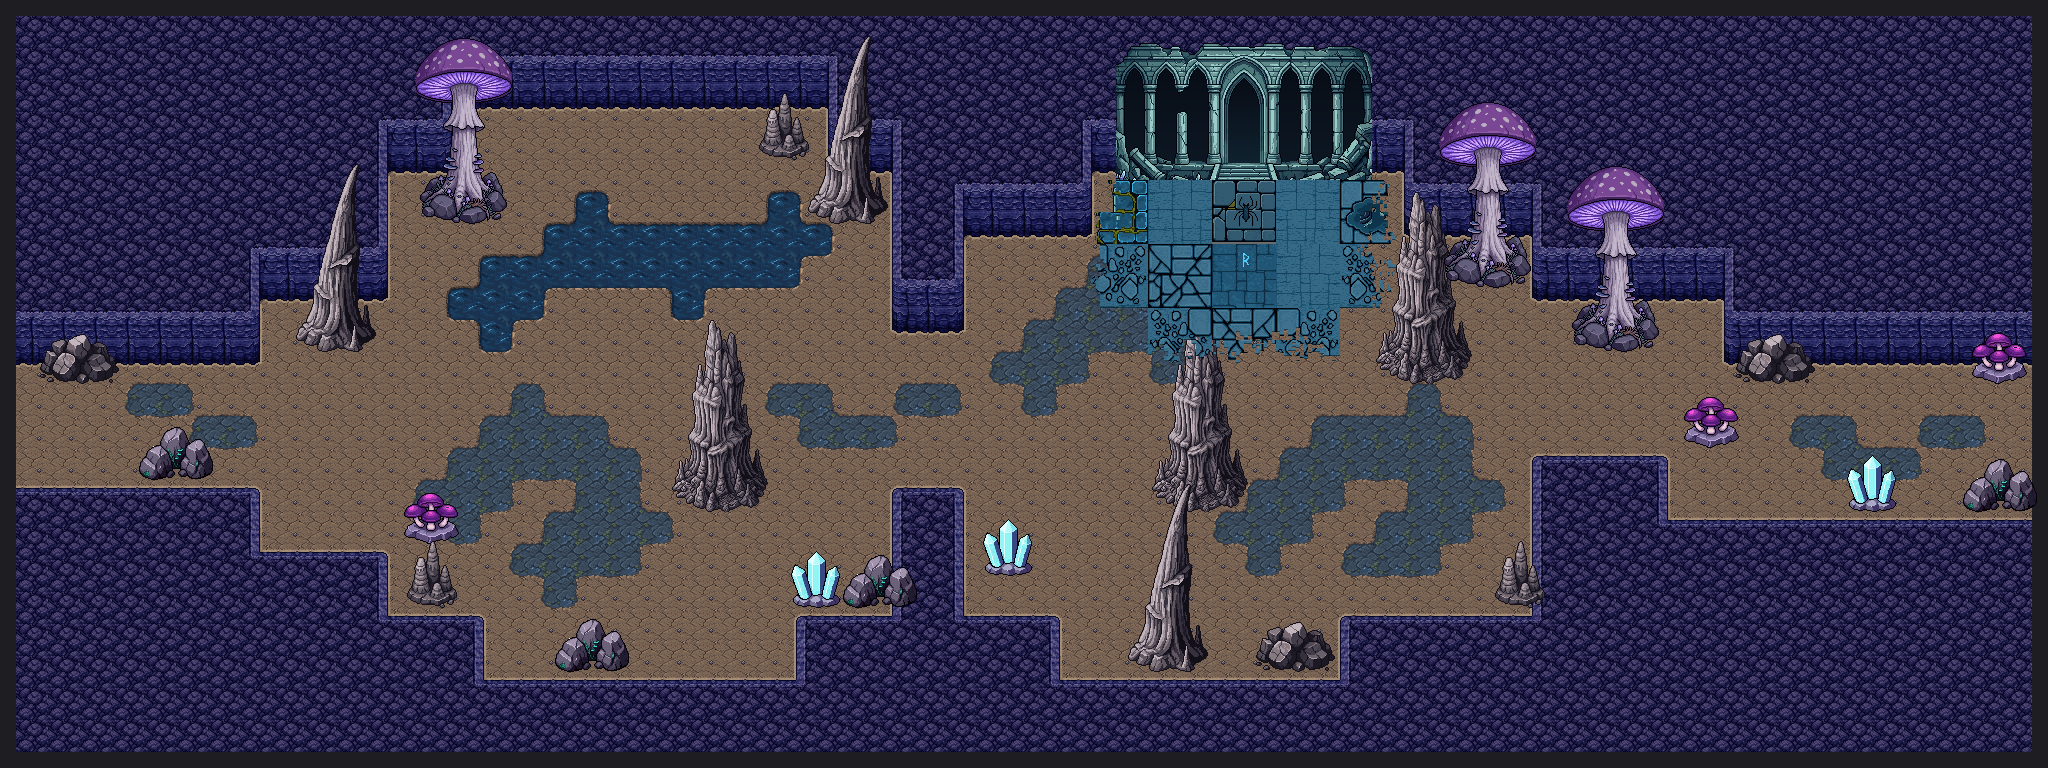
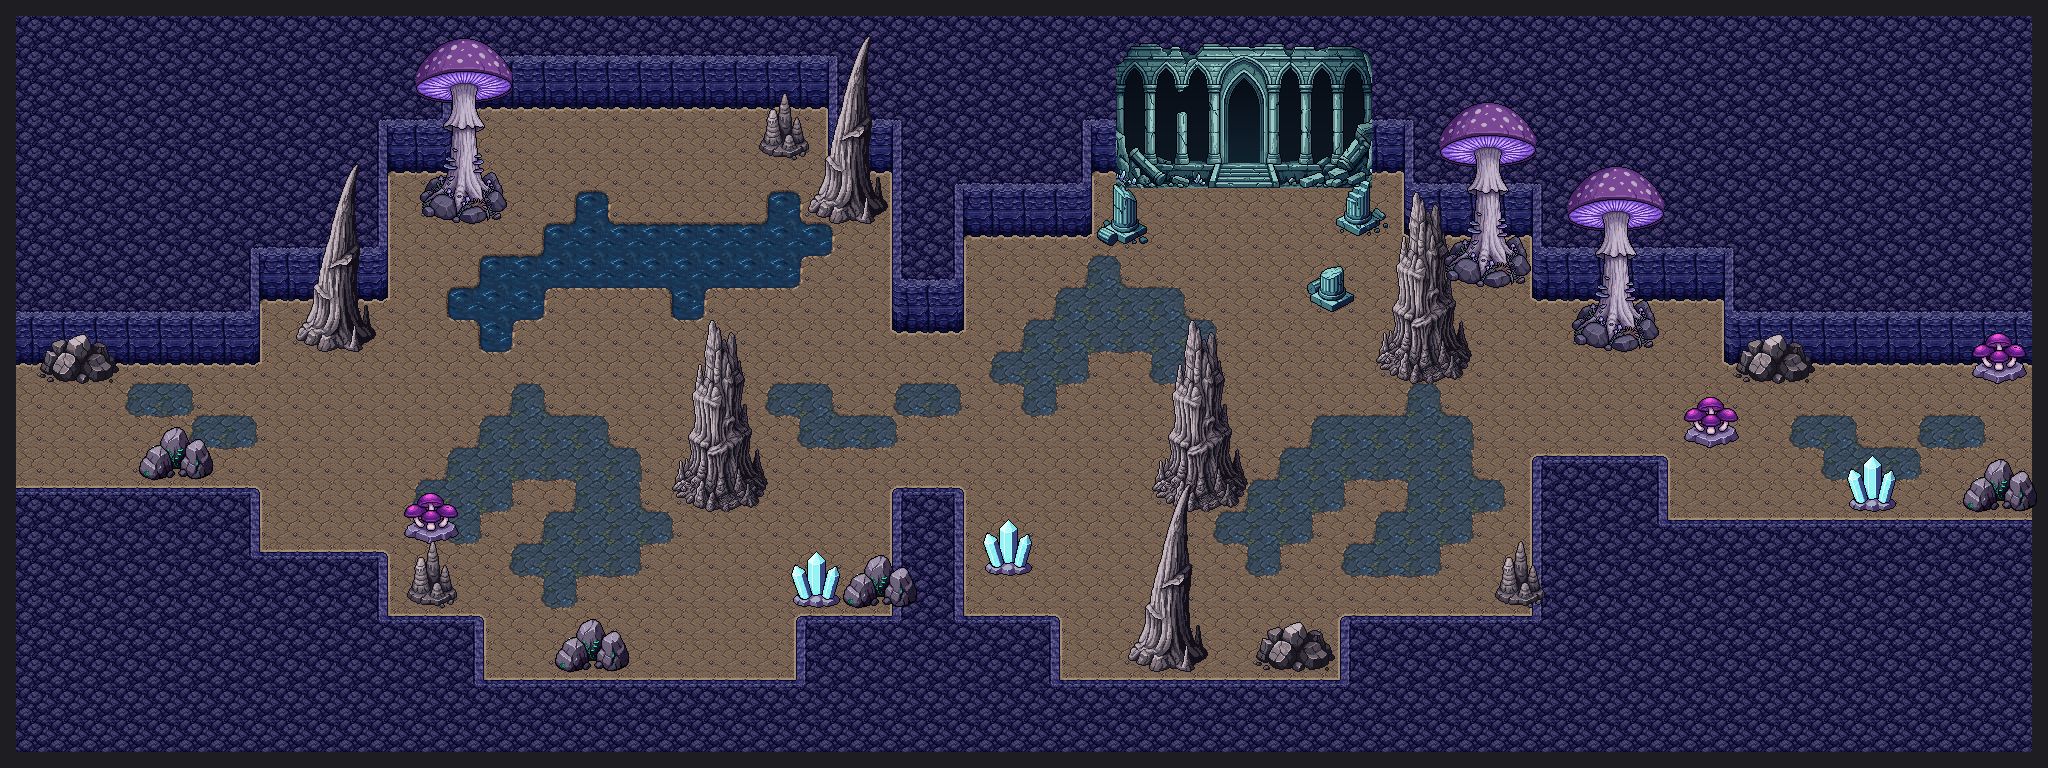
Pixel road: a high-detail stone and rubble forecourt for the Ruins
Sam, 2026-11-23: "Those ground tiles look horrible for the ruins. Make highquality, highdef
ones that look like rubble, stone, forget the spider that looks silly." The tile forecourt is
replaced by one painted floor in the look of his terrain board, kept at its own finer
resolution and drawn over the ground and under the shadows, its edge broken into the cave floor.

Claude-Session: https://claude.ai/code/session_01QSk71K38AvMywZjp8GWjJx

Changed region(s): [[0.5312, 0.2188, 0.6875, 0.4688]]

diff --git a/public/pixel-road/index.html b/public/pixel-road/index.html
@@ -194,7 +194,7 @@ function placeFollowers(dt, leaderMoved) {
 
 /* ---------- drawing ---------- */
 function resize() { const r = Math.min(window.devicePixelRatio || 1, 2); cv.width = Math.round(innerWidth * r); cv.height = Math.round(innerHeight * r); }
-let vista = 0;
+let vista = 0; const paveImg = [];
 function camera() {
   // About eight and a half cells of height on screen, whatever the window: close, so the rock and the
   // tall things in the cave stand over the figures (Sam, 2026-11-22: "more depth").
@@ -318,6 +318,8 @@ function frame(now) {
   ctx.imageSmoothingEnabled = false; ctx.drawImage(ground, 0, 0);
   // Depth, baked once by scripts/pixel-road/bake.py: the dark at the foot of each rock face and the shadow every
   // prop throws across the floor. It goes over the ground and under the figures and props.
+  // Painted floor (a ruin's forecourt): finer than the ground, so it is drawn smoothed, over the ground and under the shadows.
+  if (paveImg.length) { ctx.imageSmoothingEnabled = true; ctx.imageSmoothingQuality = "high"; for (const [im, q] of paveImg) ctx.drawImage(im, q.x, q.y, q.w, q.h); ctx.imageSmoothingEnabled = false; }
   if (shade) ctx.drawImage(shade, 0, 0);
   // Figures and props together, back to front, so a hero who walks behind a stalagmite is behind it. The props are
   // already in the ground picture; drawing the same pixels again on top of a figure is what puts it in front.
@@ -382,6 +384,7 @@ function toggleMusic() {
   ground = await img(BASE + road.ground);
   WALK = road.walkable || "w";
   if (road.shade) shade = await img(BASE + road.shade);
+  for (const q of road.paving || []) { const im = await img(BASE + q.src); if (im) paveImg.push([im, q]); }
   if (road.front) front = await img(BASE + road.front);
   for (const [k, f] of Object.entries(road.foreground || {})) fgImg[k] = await img(BASE + f);
   for (const k of new Set(road.objects.map((o) => o.kind))) objImg[k] = await img(BASE + "objects/" + k + ".png");

diff --git a/scripts/pixel-road/bake.py b/scripts/pixel-road/bake.py
@@ -52,34 +52,33 @@ def main():
         assert im.size[1] == H, (c, im.size)
         ground.paste(im, (x, 0)); x += im.size[0]
     assert x == W, x
-    # PAVING (art: Sam, 2026-11-23, his 64px Underdark ruin ground tiles). A patch of his tiles laid into the floor,
-    # e.g. the forecourt of a ruin. "rows" are lists of tile names ("" leaves the cave floor; a trailing "h" mirrors
-    # the tile). The outer edge is eaten away in ragged 4px bites so the floor shows through and it reads as old
-    # paving breaking up, not a rug; "solid" names the sides that butt against something and stay straight.
-    for pv in cfg.get("paving", []):
-        rs = pv["rows"]; S = pv.get("size", 64); pw, ph = S * len(rs[0]), S * len(rs)
-        patch = Image.new("RGB", (pw, ph)); have = np.zeros((ph, pw), bool)
-        for r, row in enumerate(rs):
-            for c, n in enumerate(row):
-                if not n: continue
-                t = Image.open(p(os.path.join(pv["tiles"], n.rstrip("h") + ".png"))).convert("RGB")
-                if n.endswith("h"): t = t.transpose(Image.FLIP_LEFT_RIGHT)
-                patch.paste(t, (c * S, r * S)); have[r * S:(r + 1) * S, c * S:(c + 1) * S] = True
+    # PAVING (Sam, 2026-11-23, on the first forecourt made of flat 64px tiles: "Those ground tiles look horrible for
+    # the ruins. Make highquality, highdef ones that look like rubble, stone"). A patch of floor is ONE painted
+    # picture, not tiles, so there are no seams, and it is kept at its own (finer) resolution and drawn by the page
+    # over the ground and under the shadows. Its outer edge is eaten away in ragged bites with a soft rim so the cave
+    # floor shows through and it reads as paving breaking up, not a rug; "solid" names the sides that butt against
+    # something and stay straight.
+    paving = []
+    if os.path.isdir(os.path.join(out, "paving")): shutil.rmtree(os.path.join(out, "paving"))
+    for k, pv in enumerate(cfg.get("paving", [])):
+        os.makedirs(os.path.join(out, "paving"), exist_ok=True)
+        im = Image.open(p(pv["image"])).convert("RGB"); pw, ph = im.size
         yy, xx = np.mgrid[0:ph, 0:pw]; solid = pv.get("solid", "")
-        d = np.full((ph, pw), 999.0)
+        d = np.full((ph, pw), 9999.0)
         if "l" not in solid: d = np.minimum(d, xx)
         if "r" not in solid: d = np.minimum(d, pw - 1 - xx)
         if "t" not in solid: d = np.minimum(d, yy)
         if "b" not in solid: d = np.minimum(d, ph - 1 - yy)
-        rng = np.random.default_rng(pv.get("seed", 7))
-        bite = np.kron(rng.random((ph // 4 + 1, pw // 4 + 1)), np.ones((4, 4)))[:ph, :pw]
-        big = np.kron(rng.random((ph // 16 + 1, pw // 16 + 1)), np.ones((16, 16)))[:ph, :pw]
-        keep = have & (d > pv.get("ragged", 22) * (0.25 + 0.75 * big) * (0.4 + 0.6 * bite))
-        g = np.array(ground); x0, y0 = pv["x"], pv["y"]
-        sub = g[y0:y0 + ph, x0:x0 + pw]; pa = np.array(patch)
-        dark = keep & ~np.roll(keep, -1, axis=0)             # a thin dark lip under each broken edge
-        sub[keep] = pa[keep]; sub[dark] = (sub[dark] * 0.55).astype(np.uint8)
-        ground = Image.fromarray(g)
+        rng = np.random.default_rng(pv.get("seed", 7)); B = pv.get("bite", 10)
+        fine = np.kron(rng.random((ph // B + 1, pw // B + 1)), np.ones((B, B)))[:ph, :pw]
+        big = np.array(Image.fromarray((rng.random((ph // 48 + 2, pw // 48 + 2)) * 255).astype(np.uint8)).resize((pw, ph), Image.BICUBIC)) / 255.0
+        reach = pv.get("ragged", 60) * (0.15 + 0.85 * big) * (0.45 + 0.55 * fine)
+        al = np.clip((d - reach) / 5.0, 0, 1)
+        al = np.array(Image.fromarray((al * 255).astype(np.uint8)).filter(ImageFilter.GaussianBlur(1.2)))
+        rgba = np.dstack([np.array(im), al]).astype(np.uint8)
+        name = "paving/%d.png" % k
+        Image.fromarray(rgba, "RGBA").save(os.path.join(out, name), optimize=True)
+        paving.append({"src": name, "x": pv["x"], "y": pv["y"], "w": pv["w"], "h": round(pv["w"] * ph / pw)})
     ground.save(os.path.join(out, "ground.png"), optimize=True)
 
     grid = [l.strip() for l in open(p(cfg["grid"])) if l.strip()]
@@ -197,7 +196,7 @@ def main():
             "ground": "ground.png", "shade": "shade.png", "front": "front.png", "foreground": fg,
             "legend": {"w": "floor", "r": "damp floor", "d": "rock", "a": "rock face", "s": "stream"}, "walkable": "wr",
             "grid": grid, "objects": objs, "entry": cfg["entry"], "exit": cfg["exit"],
-            "landmarks": marks, "glow": cfg.get("glow", {}), "shine": cfg.get("shine", {})}
+            "landmarks": marks, "paving": paving, "glow": cfg.get("glow", {}), "shine": cfg.get("shine", {})}
     json.dump(road, open(os.path.join(out, "road.json"), "w"), indent=1)
     print(rid, len(objs), "props,", sorted(seen), "->", out)
 

diff --git a/scripts/pixel-road/README.md b/scripts/pixel-road/README.md
@@ -68,9 +68,12 @@ multiple worn pillars not like a token sitting in the middle of the cave."
   pillars on the floor in front. `import_object` takes at most 256x256.
 - **`vista` on a landmark** (`{"x","y","h","reach"}`): within `reach` pixels the camera eases back to show `h` world
   pixels of height centred on x,y, and the near rock (ceiling and shelf) fades so the landmark is not hidden.
-- **`paving` in the config** lays Sam's own 64px ground tiles (`art/tiles/ruin-ground/0..15.png`) into the floor as a
-  forecourt. `rows` name the tiles ("" = leave the cave floor, trailing "h" = mirrored); the edge is eaten away so
-  it reads as broken paving, not a rug.
+- **`paving` in the config** lays ONE painted picture of floor (not tiles) in front of a landmark:
+  `{"image","x","y","w","solid","ragged"}`. It is kept at its own finer resolution in `paving/` and the page draws it
+  over the ground and under the shadows; the bake eats its edge away so it reads as broken paving, not a rug.
+  Sam, 2026-11-23, on a first try built from flat 64px tiles: "Those ground tiles look horrible for the ruins. Make
+  highquality, highdef ones that look like rubble, stone, forget the spider that looks silly." The floor is made with
+  `create_image_pro` at 640x384 (25 generations), `no_background: false`, with crops of his terrain board as references.
 
 ## Baking `road-01` (PixelLab map `1c47eece-3986-4b2c-9501-3ad0b47fe44e`, "Road 01 - Tunnel out of Velkynvelve (cavern)")
 
